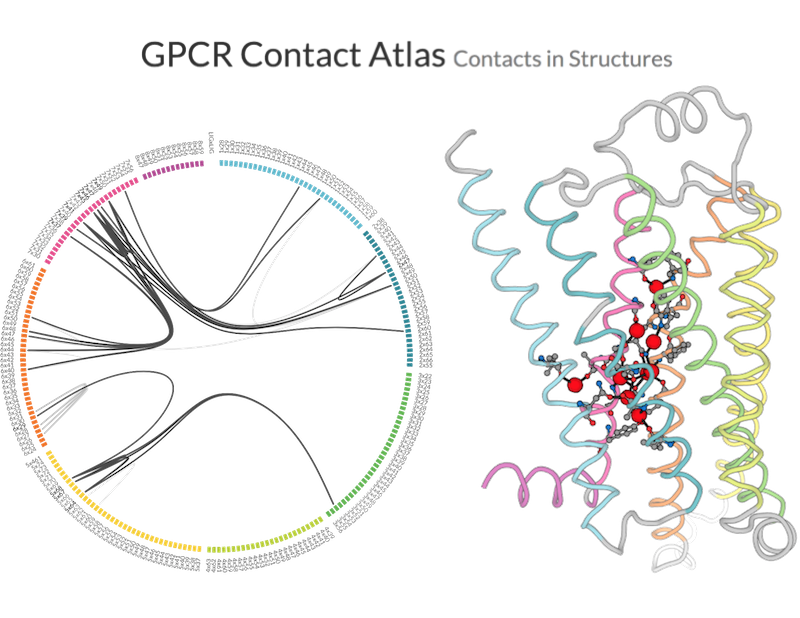
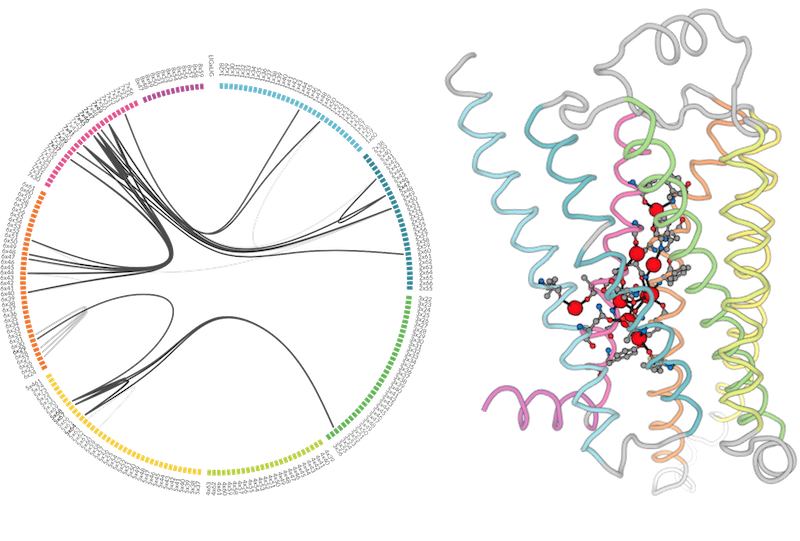
Added getcontacts and updated atlas

Changed region(s): [[0.0, 0.0, 1.0, 0.9464], [0.3125, 0.6211, 0.4062, 0.7689], [0.3125, 0.5915, 0.3438, 0.6211]]

diff --git a/index.html b/index.html
@@ -56,18 +56,17 @@
 
   <section id="projects">
     <h2>Projects</h2>
-    <hr class='h2hr'></hr>
-    <!--
-    <ul>
-       <li><a href="https://gpcrviz.github.io/flareplot/">Flareplot</a> - Interactive visualization tool for dynamic networks. </li>
-       <li><a href="https://github.com/ExcitedStates/KGS">KGS</a> - Framework for modeling the conformational flexibility of macromolecules.</li>
-       <li><a href="https://github.com/DIKU-Steiner/ProGAL">ProGAL</a> - Protein Geometric Algorithm Library. A Java library with algorithms and data structures for analyzing and representing protein structures. </li>
-       <li><a href="https://github.com/DIKU-Steiner/MPC15">High-dimensional Steiner trees</a> - A C++ library for finding optimal Steiner trees in any dimension. </li>
-       <li><a href="http://sourceforge.net/projects/pdbcluster/">PDBCluster</a> - Small C++ program that performs k-medoids and k-centers clustering of protein/RNA/DNA PDB-files using Partitioning Around Medoids (PAM) and the dRMSD metric. </li>
-       <li><a href="http://sourceforge.net/projects/kredsdesign/">KredsDesign</a> - Visual hardware simulator for a machine architecture class. Suitable companion for the book "Computer Organization and Design".</li>
-    </ul>
-    -->
+
+    <hr class='h2hr'>
+
     <div class="row">
+      <div class="project col-md-3 col-sm-4 col-xs-6">
+        <img class="project-thumb" src="imgs/projects/getcontacts-thumb.png">
+        <div class="project-title"><a href="https://getcontacts.github.io/">GetContacts</a></div>
+        <div class="project-descr">Interaction analysis and comparison from structures and simulations.</div>
+        <div class="project-details">Apache-2.0 license, Python</div>
+      </div>
+
       <div class="project col-md-3 col-sm-4 col-xs-6">
         <img class="project-thumb" src="imgs/projects/flareplot-thumb.png">
         <div class="project-title"><a href="https://gpcrviz.github.io/flareplot/">Flareplot</a></div>
@@ -77,8 +76,8 @@
 
       <div class="project col-md-3 col-sm-4 col-xs-6">
         <img class="project-thumb" src="imgs/projects/contactatlas-thumb.png">
-        <div class="project-title"><a href="https://gpcrviz.github.io/contact-atlas/">GPCR Contact Atlas</a></div>
-        <div class="project-descr">Database of GPCR contact networks and tools for comparison and analysis.</div>
+        <div class="project-title"><a href="https://getcontacts.github.io/atlas/">Contact comparison atlas</a></div>
+        <div class="project-descr">Database of interaction networks and tools for graph comparison and analysis.</div>
         <div class="project-details">Apache-2.0 license, JavaScript</div>
       </div>
 
